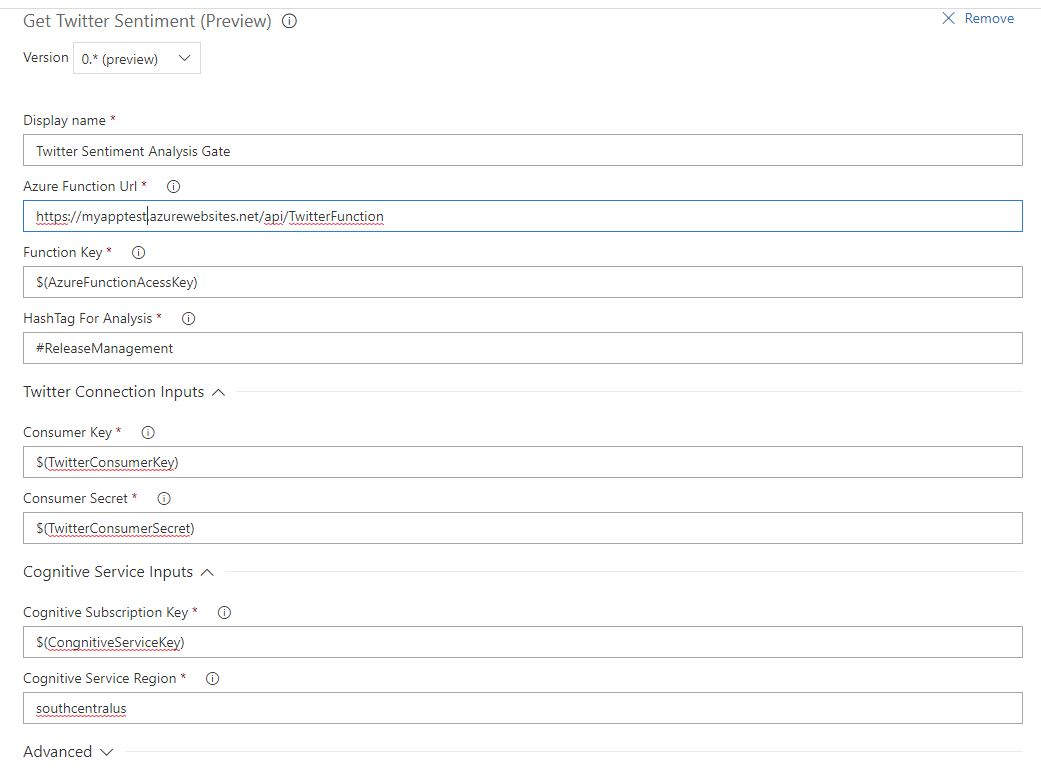
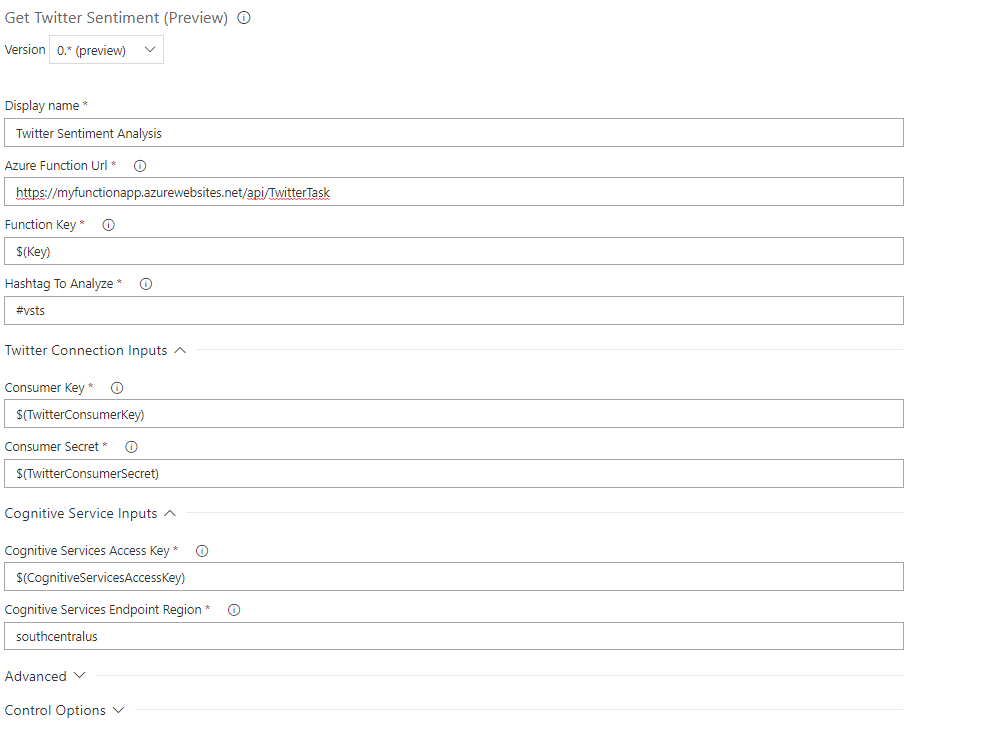
Addressed comments.

diff --git a/Extensions/TwitterSentimentAnalysis/Src/readme.md b/Extensions/TwitterSentimentAnalysis/Src/readme.md
@@ -1,40 +1,50 @@
 # **Twitter sentiment analysis extension**
 
-This extension includes a build/release task to integrate with [Azure Function](https://docs.microsoft.com/en-us/azure/azure-functions/functions-create-first-azure-function). The task executes given azure funtion with task inputs and return sentiment analysis for given hash tag. With this extension, you can use this task to get twitter sentiment for a given hash tag.
+This extension includes a build/release task and a release gate to calculate average sentiment of tweets made for a hashtag. The gate is useful to ensure that there is positivity in tweets made for the application updated on an environment before promoting the release to the next environment.
 
+It uses [Text Analytics API](https://azure.microsoft.com/en-in/services/cognitive-services/text-analytics) from Azure Cognitive Services for sentiment analysis of the tweets.
 ## **Prerequisites**
 
 ### **Create Azure Function**
-Follow the [installation guidance](https://docs.microsoft.com/en-us/azure/azure-functions/functions-create-first-azure-function) and create an HTTP triggered function. Copy paste this [sample code](TwitterSentimentAnalysisAzureFunction.txt) in azure function.
 
-### **Create Twitter Application**
-If you don't have twitter application, create [Twitter application](https://apps.twitter.com/) for using Twitter REST APIs. Once you create twitter application, go to 'Keys and Access Tokens' tab and get Consumer Key and Consumer Secret. You need to provide this Consumer Key and Consumer Secret in task inputs.
+The task uses an [Azure function](https://azure.microsoft.com/en-us/services/functions) for a server less on-demand processing of tweets received for a hashtag. [Create](https://docs.microsoft.com/en-us/azure/azure-functions/functions-create-first-azure-function) an HTTP triggered function and use this [sample code](TwitterSentimentAnalysisAzureFunction.txt) in the Azure function.
 
-### **Get Azure Congnitive Services Access key**
-Azure Congnitive Service [Text Analytics API](https://azure.microsoft.com/en-in/services/cognitive-services/text-analytics) used in this [sample azure function](TwitterSentimentAnalysisAzureFunction.txt). Congnitive service access key is required to use Text Analytics APIs. This [document](https://docs.microsoft.com/en-in/azure/cognitive-services/text-analytics/how-tos/text-analytics-how-to-access-key) gives information on how to find congnitive service access key. You need to provide this access key in 'Cognitive Subscription Key' task input.
+### **Obtain Consumer key and secret for Twitter**
 
-## **Task** 
-Installing the extension adds the following 'Get Twitter Sentiment' task in server side tasks and gates:
+If you don't have twitter application, [create Twitter](https://apps.twitter.com/) application for using Twitter REST APIs. Once you create a twitter application, get the 'Consumer Key' and 'Consumer Secret' from 'Keys and Access Tokens' tab. 
+
+### **Obtain Azure Cognitive Services access key**
+
+[Text Analytics API](https://azure.microsoft.com/en-in/services/cognitive-services/text-analytics) from Azure Cognitive Services is used in the [sample azure function](TwitterSentimentAnalysisAzureFunction.txt) for sentiment analysis of the tweets. Cognitive service access key is required to use Text Analytics APIs. Follow this [guide](https://docs.microsoft.com/en-in/azure/cognitive-services/text-analytics/how-tos/text-analytics-how-to-access-key) to obtain a cognitive service access key. 
+
+## **Task**
+
+Installing the extension adds the following 'Get Twitter Sentiment' gate and agentless task.
 
 Task snapshot:
  ![Task snapshot](Images/TaskInputs.png)
 
- ## **Task arguments** 
+ ## **Task Input parameters**
  
- * **Azure Function Url**:  Url of the Azure function that needs to be invoked. Example:- https://azurefunctionapp.azurewebsites.net/api/HttpTriggerJS1.
+ The task required the following inputs:
+ 
+ * **Azure Function Url**:  Url of the Azure function that needs to be invoked. Example:- https://azurefunctionapp.azurewebsites.net/api/HttpTriggerCS1.
  
  * **Function Key**:  Function or Host key with which we can access this function. To keep the key secure, define a secret variable and use it here. Example: - $(myFunctionKey) where myFunctionKey is an environment level secret variable with value as the secret key like ZxPXnIEODXLRzYwCw1TgZ4osMfoKs9Zn6se6X/N0FnztfDvZbdOmYw==.
 
- * **HashTag For Analysis**: Provide Twitter Hash Tag which you want get sentiment score. ex:- #vsts.
+ * **Hashtag To Analyze**: Analyze sentiment of tweets made with this Hashtag like #vsts.
 
- * **Consumer Key**:  Specify Twitter application consumer key.
+ * **Consumer Key**:  Specify Twitter application consumer key. To keep the value secure, define a secret variable and use it here. Refer [Obtain Consumer key and secret for Twitter](#user-content-**obtain-consumer-key-and-secret-for-twitter**).
 
- * **Consumer Secret**:  Specify Twitter application consumer secret value.
+ * **Consumer Secret**:  Specify Twitter application consumer secret value. To keep the value secure, define a secret variable and use it here. Refer [Obtain Consumer key and secret for Twitter](#user-content-**obtain-consumer-key-and-secret-for-twitter**).
 
- * **Cognitive Subscription Key**:  Specify Cognitive service access key.
+ * **Cognitive Services Access Key**:  Specify access key for Text Analytics API. To keep the key secure, define a secret variable and use it here. Refer [Obtain Azure Cognitive Services access key](#user-content-**obtain-azure-cognitive-services-access-key**)
 
- * **Cognitive Service Region**:  Specify congnitive service region where above access key belongs. Ex:- Region is 'westus' for conginitve service endpoint https://westus.api.conginitve.microsoft.com/text/analytics/v2.0.
+ * **Cognitive Services Endpoint Region**:  Specify the region corresponding to the Text Analytics API endpoint. For example, Region is 'westus' for cognitive service endpoint https://westus.api.conginitve.microsoft.com/text/analytics/v2.0.
 
- * **Read tweets since**:  Read tweets from this give date. Default $(Release.Deployment.StartTime), reads the tweets from starting time of deployment.
+ * **Analyze Tweets Since**:  Analyze the tweets made after this time. By default, uses $(Release.Deployment.StartTime) and analyzes the tweets made after start of the deployment.
 
- * **Threshold**: Threshold value of sentiment. If sentiment score for give hash tag is less than threshold task will fail. Default value is 0.5.
+ * **Threshold**: Threshold value for average sentiment of the tweets analyzed. If the average sentiment score is less than the threshold, task will fail. Default value is 0.5.
+
+### **Contact Information**
+You can use [RM Extensions on Github](https://github.com/Microsoft/vsts-rm-extensions/issues) to report any issues.
